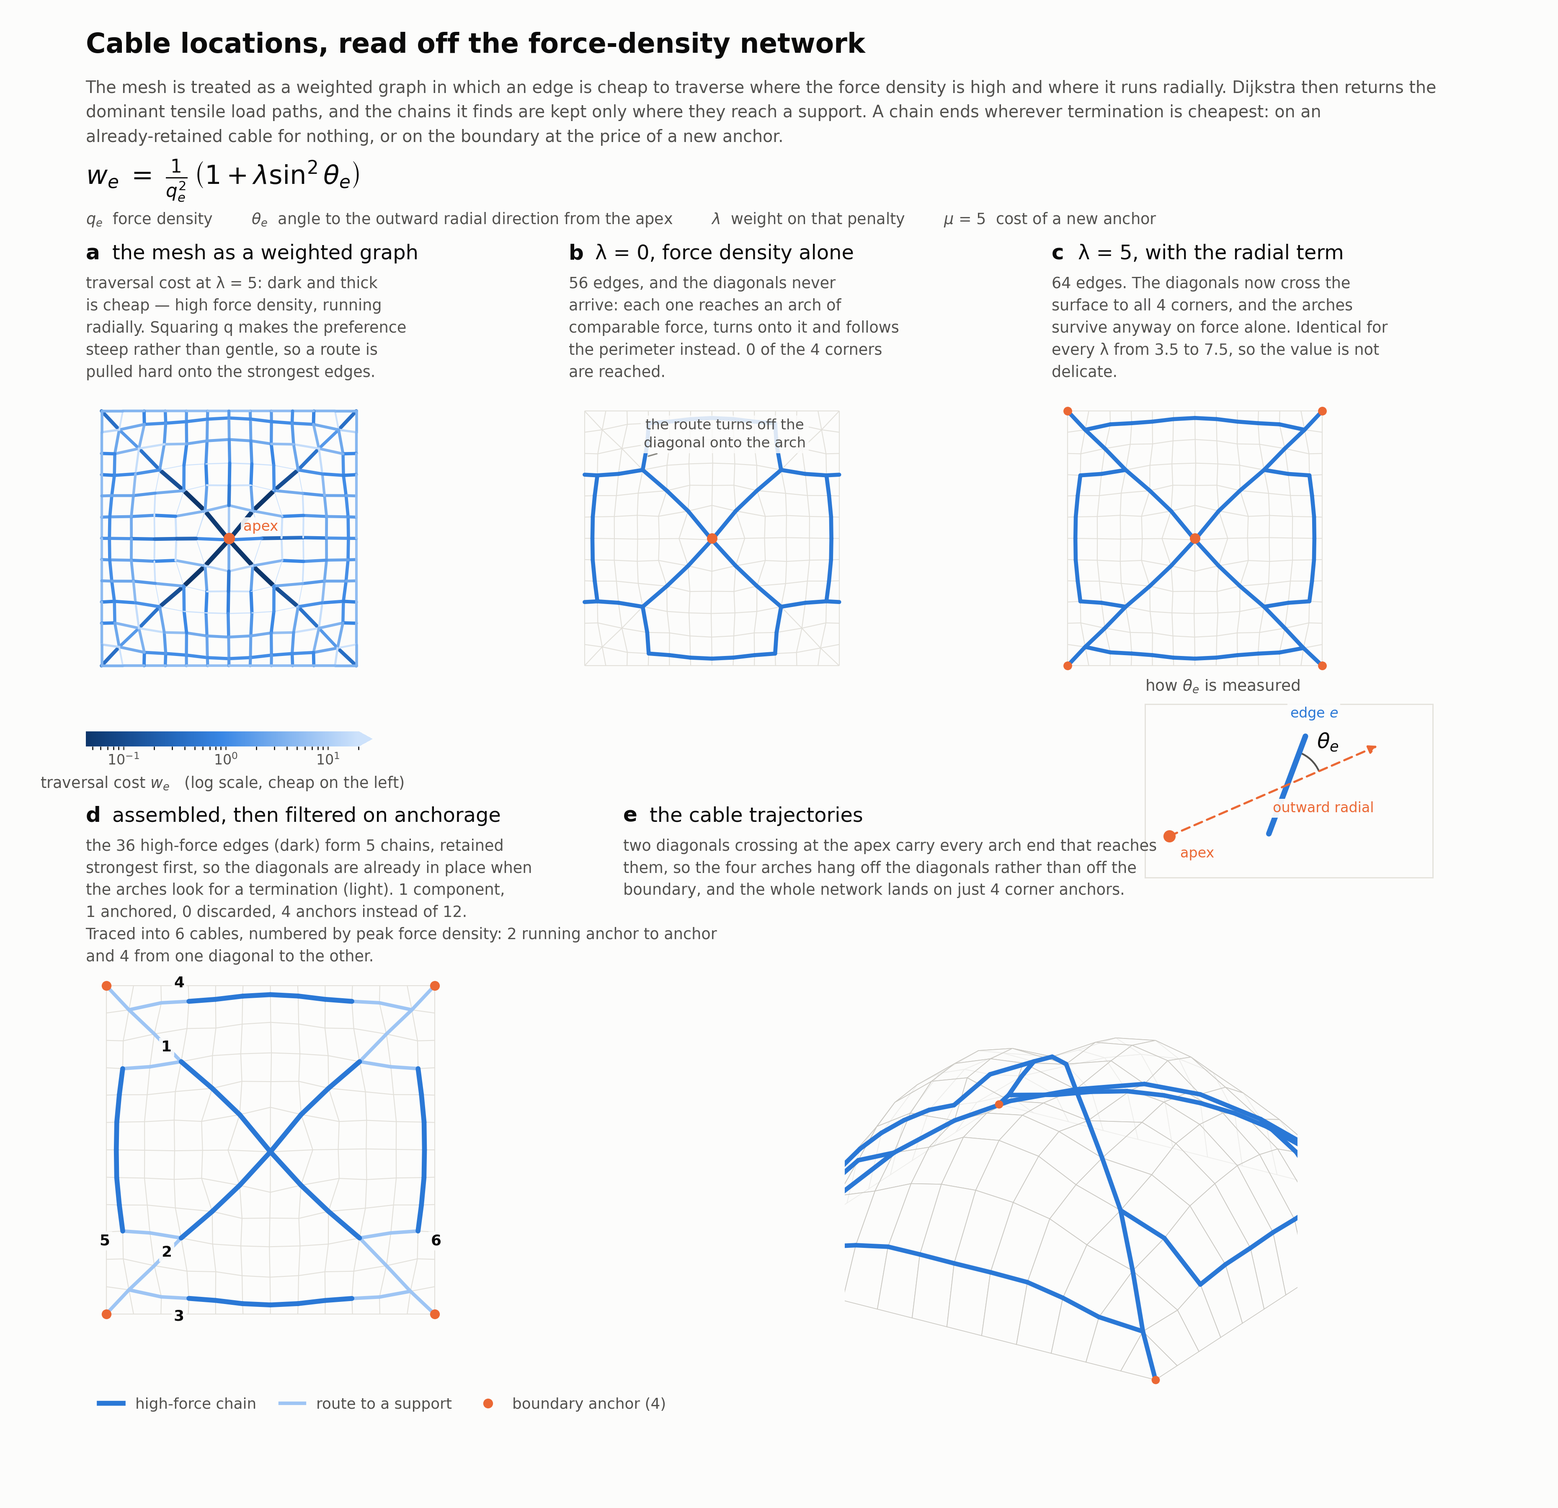
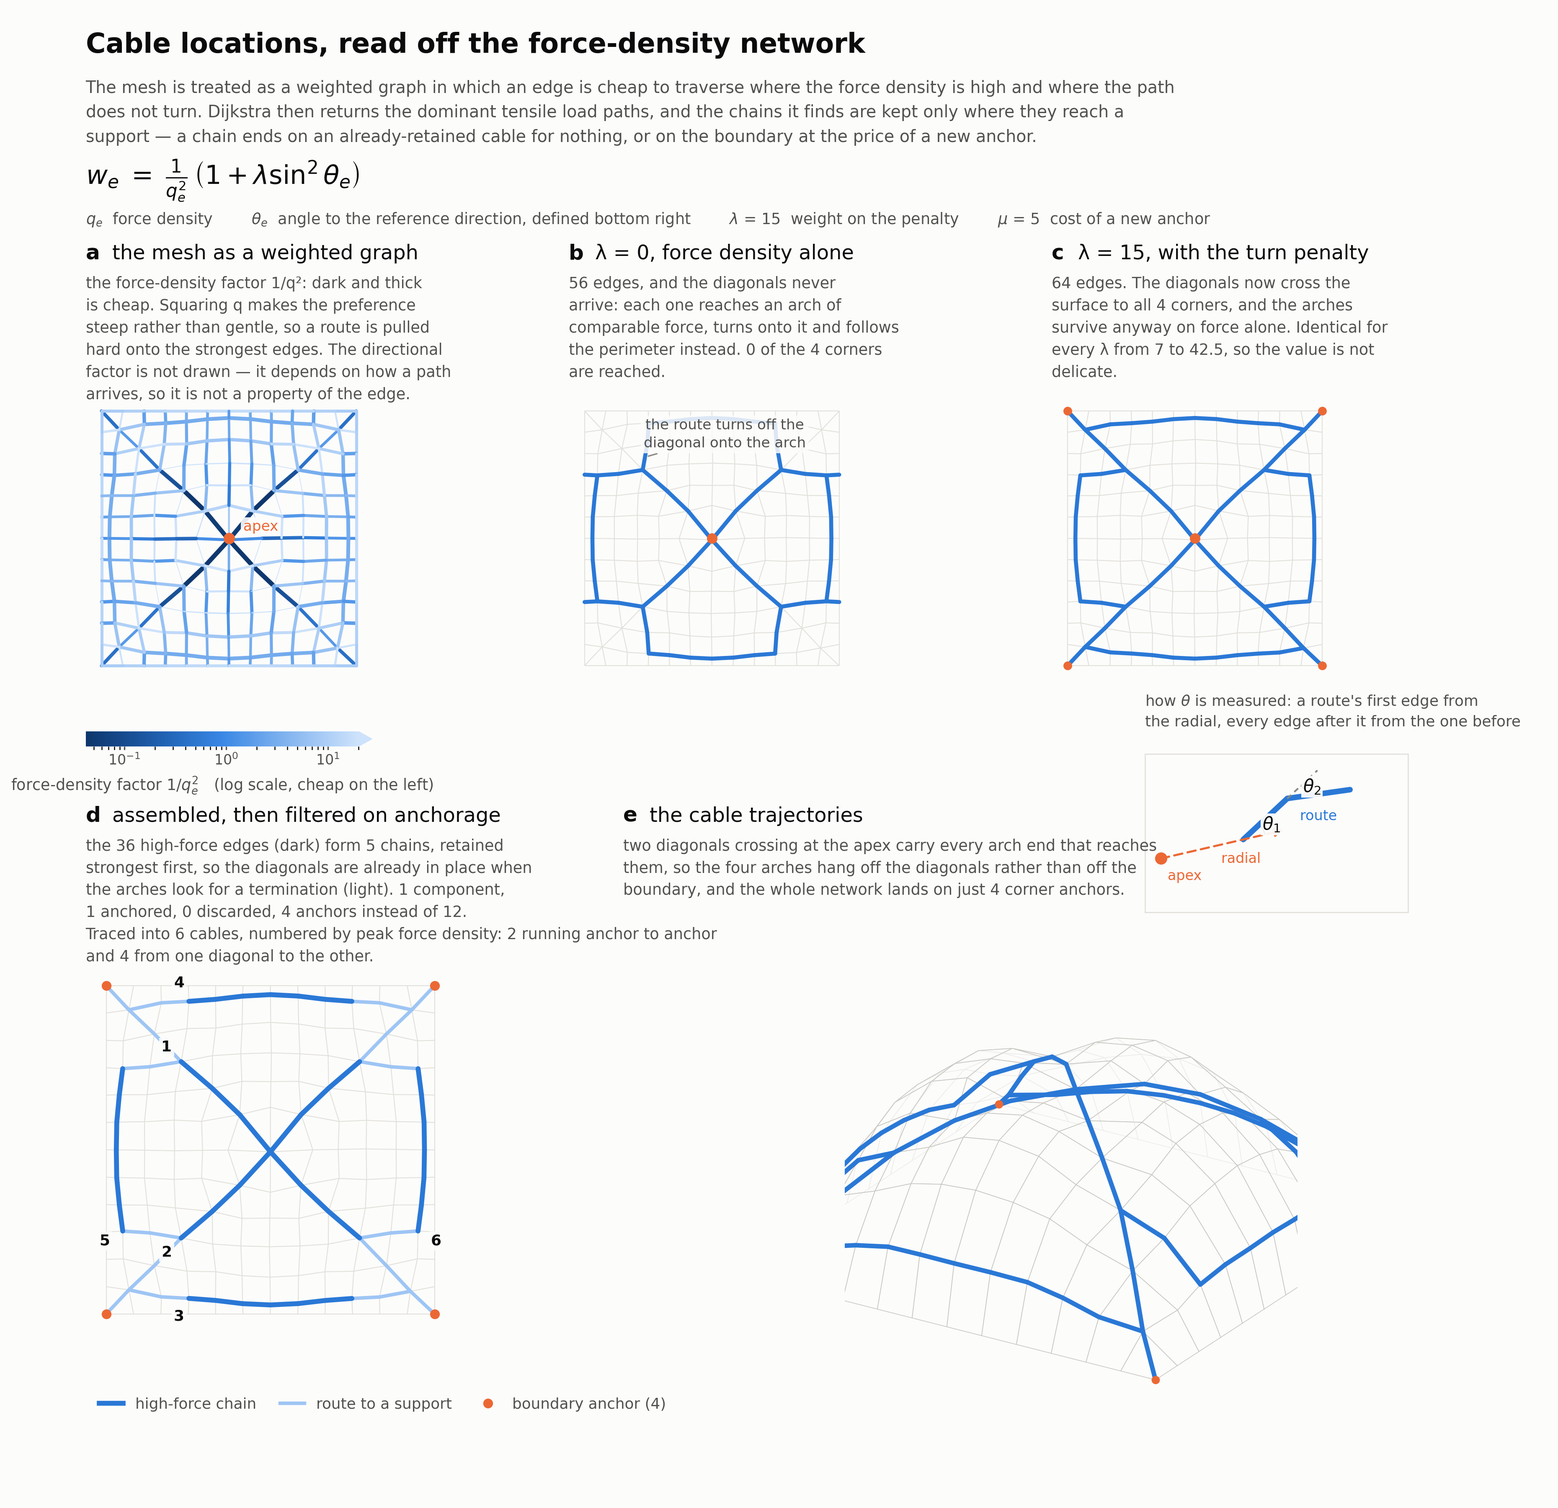
Switch the crossvault cable figure to the hybrid theta definition
theta is now read as: radial from the apex for a route's first edge, which has
no predecessor, and the turn from the previous edge for every edge after it.
THETA_MODE = "radial" restores the old all-radial definition.

Since the reference is path-dependent, routing runs over directed edges rather
than vertices — state (prev, cur), 2|E| = 672 states. Dijkstra is still exact;
only the state space grows.

Same network as before (64 edges, one component, 4 corner anchors, the same six
cables at 1.894/1.894/1.050/1.056/1.124/1.124 m), but it holds over lambda
7-42.5 instead of 3.5-7.5, so lambda moves to a mid-band 15.

Figure changes that follow from the definition:
- panel a now draws 1/q^2, the part of the cost that is a property of the edge.
  The directional factor depends on how a path arrives, so it cannot be drawn
  on an edge, and the caption says so.
- the theta schematic shows both references: theta_1 from the radial for the
  first edge, theta_2 from the preceding edge for the next.

diff --git a/FDM/figure_cable_extraction.py b/FDM/figure_cable_extraction.py
@@ -4,8 +4,14 @@ Implements the method as written: the mesh is read as a weighted graph with
 
     w_e = (1 / q_e^2) * (1 + lambda * sin^2(theta_e))
 
-where q_e is the edge force density and theta_e the angle between the edge and the
-outward radial direction from the apex. Edges with q >= Q_THRESHOLD form the chains,
+where q_e is the edge force density and theta_e the angle to a reference direction:
+radial from the apex for a route's FIRST edge, which has no predecessor, and the
+previous edge for every edge after it (THETA_MODE = "hybrid"). Because that reference
+is path-dependent, routing runs over directed edges rather than vertices; Dijkstra is
+still exact, on a state space of 2|E| instead of |V|. THETA_MODE = "radial" restores
+the all-radial definition, where w_e is a constant per edge.
+
+Edges with q >= Q_THRESHOLD form the chains,
 retained strongest first; Dijkstra then routes each chain END to whichever termination
 is cheapest — an already-retained cable for nothing, or a new boundary anchor at a
 cost ANCHOR_COST. Only components reaching a boundary vertex, directly or through
@@ -30,15 +36,16 @@ high-force edges from the union altogether leaves the arches as disconnected stu
 since each arch seed then routes radially outward without ever traversing the arch.
 
 Panels:
-  a  the weighted graph, with a schematic of how theta is measured
+  a  the force-density factor 1/q^2 (the part of the cost that IS per-edge)
   b  lambda = 0: force-density guidance alone, the path drifts onto the arches
-  c  lambda = 5: the radial term restored, chains cross the surface
+  c  lambda = LAMBDA: the penalty restored, chains cross the surface
   d  the assembled subgraph and the boundary-anchor test
   e  the retained cable trajectories in 3D
 
     python FDM/figure_cable_extraction.py
 """
 import collections
+import heapq
 import json
 import os
 
@@ -56,7 +63,15 @@ HERE = os.path.dirname(os.path.abspath(__file__))
 RESULT = os.path.join(HERE, "data", "crossvault", "mesh_out_cross_20240404130204.json")
 OUT = os.path.join(HERE, "figures", "cable_extraction.png")
 
-LAMBDA = 5.0        # the network is identical for every lambda in 3.5 - 20 (checked)
+THETA_MODE = "hybrid"   # "hybrid": a path's FIRST edge is referenced to the outward
+                        # radial direction from the apex (it has no predecessor), and
+                        # every edge after it to the turn from its predecessor. Since
+                        # the reference is then path-dependent, routing runs over
+                        # directed edges. "radial": theta is the angle to the radial
+                        # direction for every edge, so w_e is a constant per edge and
+                        # a vertex-space Dijkstra suffices. Both give the same network
+                        # here; hybrid holds it over a far wider band of lambda.
+LAMBDA = 15.0       # mid-band. Measured good range: 7 - 30 hybrid, 4 - 7.5 radial
 LAMBDA_OFF = 0.0    # the comparison case: pure force-density guidance
 Q_THRESHOLD = 2.0   # force concentrations = edges with q >= this. A fixed value, not
                     # a percentile: the selected set is the same anywhere in
@@ -164,8 +179,64 @@ def graph_components(edges):
     return comps, adj
 
 
+def sin2_turn(V, t, u, v):
+    """sin^2 of the turn between edge (t,u) and edge (u,v), in plan."""
+    d1 = V[u][:2] - V[t][:2]
+    d2 = V[v][:2] - V[u][:2]
+    d1 = d1 / np.linalg.norm(d1)
+    d2 = d2 / np.linalg.norm(d2)
+    return float(np.clip(abs(d1[0] * d2[1] - d1[1] * d2[0]), 0.0, 1.0) ** 2)
+
+
+def turn_route(V, adj, q_of, s2, lam, tip, prices):
+    """Least-cost route from a chain end to any priced termination, with theta read
+    as the turn from the preceding edge.
+
+    Because the reference direction is now path-dependent, the cost of entering an
+    edge depends on how the path arrived, so the search runs over DIRECTED EDGES —
+    state (prev, cur) means 'arrived at cur along prev->cur'. Dijkstra is still
+    exact on that state space; only its size changes, from |V| to 2|E|. The first
+    edge has no predecessor and is referenced radially instead, which is the one
+    place the apex still enters.
+    """
+    def cost(u, v, s2_val):
+        return (1.0 / q_of[frozenset((u, v))] ** 2) * (1.0 + lam * s2_val)
+
+    dist, parent, pq = {}, {}, []
+    for v in adj[tip]:                                  # first edge: radial
+        st = (tip, v)
+        dist[st] = cost(tip, v, s2[frozenset((tip, v))])
+        parent[st] = None
+        heapq.heappush(pq, (dist[st], st))
+    while pq:
+        d, st = heapq.heappop(pq)
+        if d > dist.get(st, np.inf) + 1e-12:
+            continue
+        p, cur = st
+        for nxt in adj[cur]:
+            if nxt == p:
+                continue
+            c = d + cost(cur, nxt, sin2_turn(V, p, cur, nxt))
+            st2 = (cur, nxt)
+            if c < dist.get(st2, np.inf) - 1e-12:
+                dist[st2] = c
+                parent[st2] = st
+                heapq.heappush(pq, (c, st2))
+    best, best_st = np.inf, None
+    for st, d in sorted(dist.items()):                  # sorted: ties break the same
+        if st[1] in prices and d + prices[st[1]] < best - 1e-12:
+            best, best_st = d + prices[st[1]], st
+    if best_st is None:
+        return None
+    path, st = [best_st[1]], best_st
+    while st is not None:
+        path.append(st[0])
+        st = parent[st]
+    return path[::-1]
+
+
 def extract(V, E, s2, boundary, lam, q_threshold, tie_to_cables=TIE_TO_CABLES,
-            anchor_cost=ANCHOR_COST):
+            anchor_cost=ANCHOR_COST, theta_mode=None):
     """The high-force chains, plus the least-cost route that carries each chain END
     out to a support, then filtered on boundary contact. Seeding at the chain ends
     rather than at every high-force vertex is what keeps one tie per chain end
@@ -178,11 +249,16 @@ def extract(V, E, s2, boundary, lam, q_threshold, tie_to_cables=TIE_TO_CABLES,
     force handed to an anchored cable still reaches the support. On this vault that
     is what ties the four arches into the two diagonals instead of sending each arch
     end out to the boundary on its own."""
+    mode = theta_mode or THETA_MODE
     n = max(V) + 1
     w = costs(E, s2, lam)
     rows = [e[0] for e in E] + [e[1] for e in E]
     cols = [e[1] for e in E] + [e[0] for e in E]
-    G = coo_matrix((np.r_[w, w], (rows, cols)), shape=(n, n)).tocsr()
+    q_of = {frozenset((u, w_)): qq for u, w_, qq in E}
+    mesh_adj = collections.defaultdict(set)
+    for u, w_, _ in E:
+        mesh_adj[u].add(w_)
+        mesh_adj[w_].add(u)
 
     hi = [e for e in E if e[2] >= q_threshold]
     hi_edges = {frozenset((u, w_)) for u, w_, _ in hi}
@@ -207,22 +283,30 @@ def extract(V, E, s2, boundary, lam, q_threshold, tie_to_cables=TIE_TO_CABLES,
         if tie_to_cables:
             for v in cable_v:
                 ends[v] = 0.0
-        r = rows + [n] * len(ends) + list(ends)
-        c_ = cols + list(ends) + [n] * len(ends)
-        vals = np.r_[w, w, list(ends.values()), list(ends.values())]
-        Gv = coo_matrix((vals, (r, c_)), shape=(n + 1, n + 1)).tocsr()
-        _d, pred, _s = dijkstra(Gv, indices=[n], min_only=True,
-                                return_predecessors=True)
+        pred = None
+        if mode != "hybrid":
+            r = rows + [n] * len(ends) + list(ends)
+            c_ = cols + list(ends) + [n] * len(ends)
+            vals = np.r_[w, w, list(ends.values()), list(ends.values())]
+            Gv = coo_matrix((vals, (r, c_)), shape=(n + 1, n + 1)).tocsr()
+            _d, pred, _s = dijkstra(Gv, indices=[n], min_only=True,
+                                    return_predecessors=True)
         grown = set()
         for t in tips:
-            cur, walk = t, [t]
-            while cur != n and int(pred[cur]) >= 0:
-                p = int(pred[cur])
-                if p != n:                      # skip the virtual termination edge
-                    routes.add(frozenset((p, cur)))
-                    grown.update((p, cur))
-                    walk.append(p)
-                cur = p
+            if mode == "hybrid":
+                walk = turn_route(V, mesh_adj, q_of, s2, lam, t, ends) or [t]
+                for a, b in zip(walk[:-1], walk[1:]):
+                    routes.add(frozenset((a, b)))
+                    grown.update((a, b))
+            else:
+                cur, walk = t, [t]
+                while cur != n and int(pred[cur]) >= 0:
+                    p = int(pred[cur])
+                    if p != n:                  # skip the virtual termination edge
+                        routes.add(frozenset((p, cur)))
+                        grown.update((p, cur))
+                        walk.append(p)
+                    cur = p
             # the ordered route off this chain end, kept so a cable can later be
             # assembled as route + chain + route rather than by geometry alone
             tip_routes[t] = walk
@@ -380,34 +464,50 @@ def theta_diagram(fig, rect):
         sp.set_color("#e4e2dc")
         sp.set_linewidth(0.7)
 
-    a = np.array([0.14, 0.24])
-    tip = np.array([1.34, 0.76])
-    u = (tip - a) / np.linalg.norm(tip - a)
-    mid = a + u * 0.74
-    ang = np.deg2rad(46.0)
-    d = np.array([u[0]*np.cos(ang) - u[1]*np.sin(ang),
-                  u[0]*np.sin(ang) + u[1]*np.cos(ang)])
+    def rot(v, deg):
+        t = np.deg2rad(deg)
+        return np.array([v[0]*np.cos(t) - v[1]*np.sin(t),
+                         v[0]*np.sin(t) + v[1]*np.cos(t)])
 
-    ax.annotate("", xy=tip, xytext=a,
+    def arc(at, v1, v2, r, label, dy=0.0):
+        ax.add_patch(matplotlib.patches.Arc(
+            at, r, r, angle=0, color=INK_2, lw=1.0,
+            theta1=np.rad2deg(np.arctan2(v1[1], v1[0])),
+            theta2=np.rad2deg(np.arctan2(v2[1], v2[0]))))
+        bis = (v1 + v2) / np.linalg.norm(v1 + v2)
+        ax.text(*(at + bis * (r * 0.72) + np.array([0.0, dy])), label, fontsize=10,
+                color=INK, ha="center", va="center", zorder=8,
+                bbox=dict(fc=SURFACE, ec="none", alpha=0.95, pad=1.0))
+
+    apex = np.array([0.10, 0.34])
+    p0 = np.array([0.62, 0.46])               # the chain end a route starts from
+    radial = (p0 - apex) / np.linalg.norm(p0 - apex)
+    d1 = rot(radial, 30.0)
+    p1 = p0 + d1 * 0.38
+    d2 = rot(d1, -35.0)
+    p2 = p1 + d2 * 0.40
+
+    # the radial reference, through the chain end
+    ax.annotate("", xy=p0 + radial * 0.26, xytext=apex,
                 arrowprops=dict(arrowstyle="-|>", color=SERIES_2, lw=1.2,
                                 ls=(0, (4, 2.5)), shrinkA=0, shrinkB=0))
-    ax.plot(*zip(mid - d * 0.30, mid + d * 0.30), color=SERIES_1, lw=3.2,
-            solid_capstyle="round")
-    ax.plot(*a, "o", color=SERIES_2, ms=6)
-    ax.add_patch(matplotlib.patches.Arc(
-        mid, 0.40, 0.40, angle=0, theta1=np.rad2deg(np.arctan2(u[1], u[0])),
-        theta2=np.rad2deg(np.arctan2(d[1], d[0])), color=INK_2, lw=1.0))
+    ax.plot(*apex, "o", color=SERIES_2, ms=6)
+    # the two edges of the route
+    ax.plot(*zip(p0, p1), color=SERIES_1, lw=3.2, solid_capstyle="round")
+    ax.plot(*zip(p1, p2), color=SERIES_1, lw=3.2, solid_capstyle="round")
+    # and the first edge's direction carried past p1, the reference for the second
+    ax.plot(*zip(p1, p1 + d1 * 0.26), color=INK_3, lw=1.0, ls=(0, (3, 2.5)))
+
+    arc(p0, radial, d1, 0.28, r"$\theta_1$")
+    arc(p1, d2, d1, 0.24, r"$\theta_2$")
 
     bb = dict(fc=SURFACE, ec="none", alpha=0.95, pad=1.4)
-    ax.text(*(a + np.array([0.16, -0.10])), "apex", fontsize=8, color=SERIES_2,
+    ax.text(*(apex + np.array([0.15, -0.11])), "apex", fontsize=8, color=SERIES_2,
             ha="center", va="center", bbox=bb)
-    ax.text(1.32, 0.40, "outward radial", fontsize=8, color=SERIES_2, ha="right",
-            va="center", bbox=bb)
-    ax.text(*(mid + d * 0.44), "edge $e$", fontsize=8, color=SERIES_1, ha="center",
-            va="center", bbox=bb)
-    bis = (u + d) / np.linalg.norm(u + d)
-    ax.text(*(mid + bis * 0.34), r"$\theta_e$", fontsize=12, color=INK,
-            ha="center", va="center", bbox=bb)
+    ax.text(*(apex + radial * 0.52 + np.array([0.0, -0.12])), "radial", fontsize=8,
+            color=SERIES_2, ha="center", va="center", bbox=bb)
+    ax.text(*(0.5 * (p1 + p2) + np.array([0.0, -0.14])), "route", fontsize=8,
+            color=SERIES_1, ha="center", va="center", bbox=bb)
     return ax
 
 
@@ -443,11 +543,11 @@ def main():
         return sum(1 for e in res["edges"] if s2[e] > 0.5)
 
     # over what range of lambda is the extracted network unchanged?
-    plateau = [lam for lam in np.arange(1.0, 20.5, 0.5)
+    plateau = [lam for lam in np.arange(1.0, 45.5, 0.5)
                if extract(V, E, s2, boundary, float(lam), q_thr)["edges"] == on["edges"]]
     lam_lo, lam_hi = min(plateau), max(plateau)
     print(f"network identical to lambda={LAMBDA:g} for lambda in "
-          f"{lam_lo:g} – {lam_hi:g} (scanned 1 – 20 in steps of 0.5)")
+          f"{lam_lo:g} – {lam_hi:g} (scanned 1 – 45 in steps of 0.5)")
 
     mu_plateau = [mu for mu in np.arange(0.5, 40.5, 0.5)
                   if extract(V, E, s2, boundary, LAMBDA, q_thr,
@@ -476,10 +576,14 @@ def main():
     # ------------------------------------------------- a  the weighted graph
     ax_a = fig.add_axes(square(X1, ROW1, H1))
     frame(ax_a)
-    # the slack web puts a long tail on w (up to ~590), so the ramp is cut at 20 and
-    # the tail folded into the top step, keeping contrast where the routes actually go
-    norm = LogNorm(vmin=max(w_on.min(), 1e-2), vmax=20.0)
-    pref = -np.log10(np.clip(w_on, 1e-3, None))
+    # With theta read as a turn, the directional factor depends on how a path
+    # arrives, so it is not a property of the edge and cannot be drawn on one. What
+    # can be drawn is the force-density factor 1/q^2, the part of the cost that is
+    # fixed per edge. The slack web puts a long tail on it, so the ramp is cut at 20
+    # and the tail folded into the top step.
+    w_static = np.array([1.0 / qq ** 2 for _, _, qq in E])
+    norm = LogNorm(vmin=max(w_static.min(), 1e-2), vmax=20.0)
+    pref = -np.log10(np.clip(w_static, 1e-3, None))
     lw = 0.4 + 2.2 * (pref - pref.min()) / np.ptp(pref)
     ax_a.add_collection(LineCollection([[V[u][:2], V[w][:2]] for u, w, _ in E],
                                        array=w_on, cmap=COST_CMAP, norm=norm,
@@ -489,20 +593,23 @@ def main():
               ha="center", va="center",
               bbox=dict(fc=SURFACE, ec="none", alpha=0.9, pad=1.4), zorder=7)
     panel_title(fig, X1, T1, "a", "the mesh as a weighted graph",
-                f"traversal cost at λ = {LAMBDA:g}: dark and thick\n"
-                f"is cheap — high force density, running\n"
-                f"radially. Squaring q makes the preference\n"
-                f"steep rather than gentle, so a route is\n"
-                f"pulled hard onto the strongest edges.")
+                f"the force-density factor 1/q²: dark and thick\n"
+                f"is cheap. Squaring q makes the preference\n"
+                f"steep rather than gentle, so a route is pulled\n"
+                f"hard onto the strongest edges. The directional\n"
+                f"factor is not drawn — it depends on how a path\n"
+                f"arrives, so it is not a property of the edge.")
 
-    theta_diagram(fig, [0.735, 0.418, 0.1848, 0.115])
-    fig.text(0.735, 0.542, "how $\\theta_e$ is measured", fontsize=9, color=INK_2,
-             va="baseline")
+    theta_diagram(fig, [0.735, 0.395, 0.169, 0.105])
+    fig.text(0.735, 0.540,
+             "how $\\theta$ is measured: a route's first edge from\nthe radial, "
+             "every edge after it from the one before",
+             fontsize=8.6, color=INK_2, va="top", linespacing=1.5)
 
     cax = fig.add_axes([X1, 0.505, H1 * FIGH / FIGW, 0.010])
     cb = fig.colorbar(plt.cm.ScalarMappable(norm=norm, cmap=COST_CMAP), cax=cax,
                       orientation="horizontal", extend="max")
-    cb.set_label("traversal cost $w_e$   (log scale, cheap on the left)",
+    cb.set_label("force-density factor $1/q_e^2$   (log scale, cheap on the left)",
                  fontsize=8.8, color=INK_2, labelpad=4)
     cb.outline.set_visible(False)
     cb.ax.tick_params(labelsize=8, colors=INK_2, length=2, pad=2)
@@ -533,7 +640,7 @@ def main():
     ax_c.plot(*apex, "o", color=SERIES_2, ms=5, zorder=5)
     for cv in corners:
         ax_c.plot(*V[cv][:2], "o", color=SERIES_2, ms=4, zorder=5)
-    panel_title(fig, X3, T1, "c", f"λ = {LAMBDA:g}, with the radial term",
+    panel_title(fig, X3, T1, "c", f"λ = {LAMBDA:g}, with the turn penalty",
                 f"{len(on['edges'])} edges. The diagonals now cross the\n"
                 f"surface to all {corners_hit(on)} corners, and the arches\n"
                 f"survive anyway on force alone. Identical for\n"
@@ -636,19 +743,20 @@ def main():
              fontsize=15.5, color=INK, fontweight="semibold", va="baseline")
     fig.text(X1, 0.947,
              "The mesh is treated as a weighted graph in which an edge is cheap to "
-             "traverse where the force density is high and where it runs radially. "
-             "Dijkstra then returns the\ndominant tensile load paths, and the chains it "
-             "finds are kept only where they reach a support. A chain ends wherever "
-             "termination is cheapest: on an\nalready-retained cable for nothing, or on "
-             "the boundary at the price of a new anchor.",
+             "traverse where the force density is high and where the path\ndoes not "
+             "turn. Dijkstra then returns the dominant tensile load paths, and the "
+             "chains it finds are kept only where they reach a\nsupport — a chain ends "
+             "on an already-retained cable for nothing, or on the boundary at the price "
+             "of a new anchor.",
              fontsize=9.5, color=INK_2, va="top", linespacing=1.6)
     fig.text(X1, 0.878,
              r"$w_e \; = \; \frac{1}{q_e^{2}} \, \left(1 + \lambda \sin^{2}\theta_e\right)$",
              fontsize=15, color=INK, va="baseline")
     fig.text(X1, 0.860,
-             "$q_e$  force density        $\\theta_e$  angle to the outward radial "
-             "direction from the apex        $\\lambda$  weight on that penalty"
-             f"        $\\mu$ = {ANCHOR_COST:g}  cost of a new anchor",
+             "$q_e$  force density        $\\theta_e$  angle to the reference "
+             "direction, defined bottom right        "
+             f"$\\lambda$ = {LAMBDA:g}  weight on the penalty        "
+             f"$\\mu$ = {ANCHOR_COST:g}  cost of a new anchor",
              fontsize=8.8, color=INK_2, va="top")
 
     os.makedirs(os.path.dirname(OUT), exist_ok=True)
